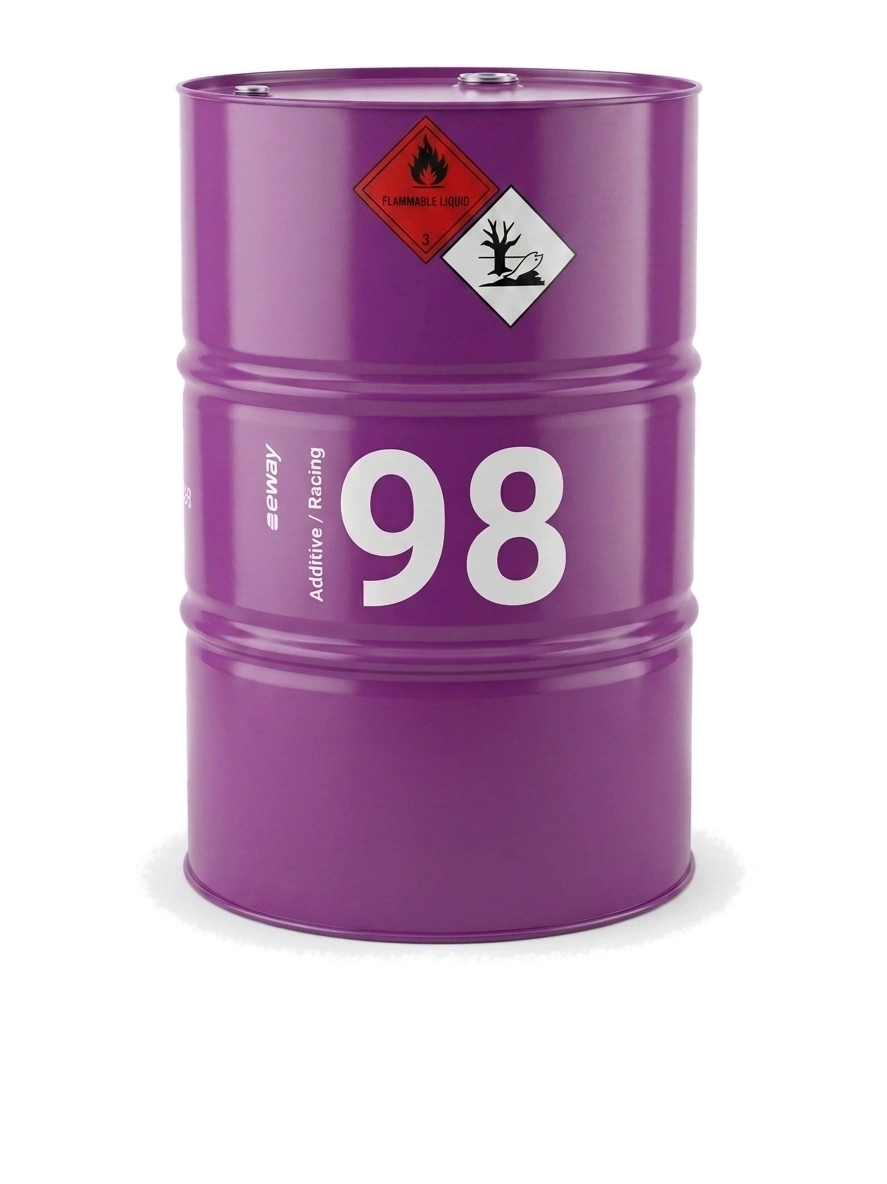
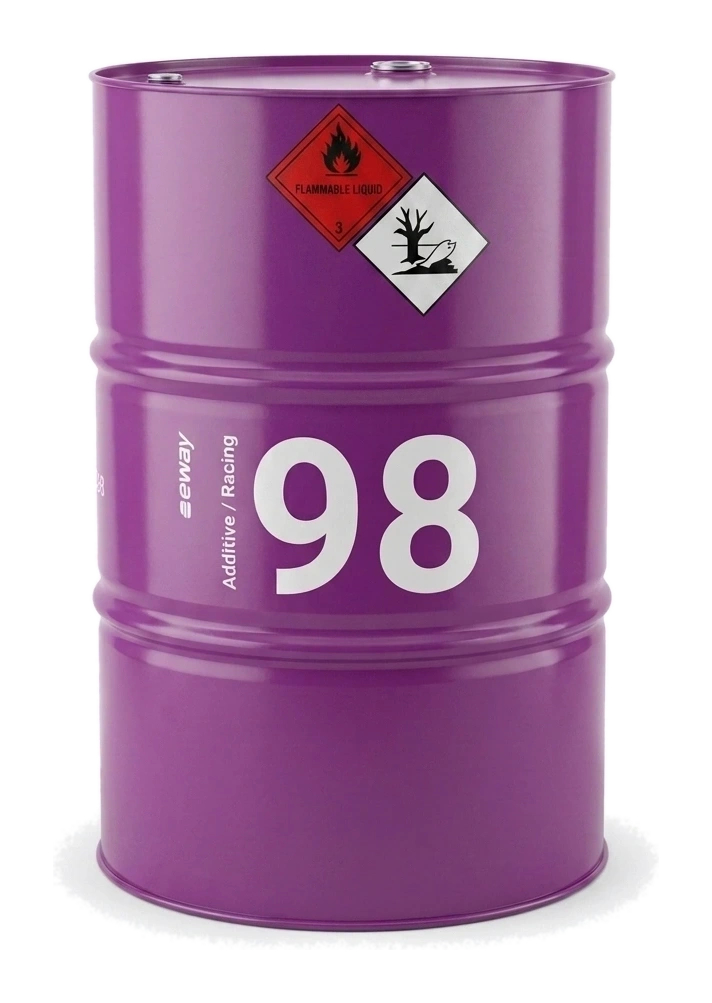
fix(productos,portada): tambor EWAY, orden por octanaje, gap del hero, tipografia
- Tambor de EWAY Super Plus 98 recortado a su cuerpo solido (alpha>128):
  la sombra suave del render original inflaba el bounding box y hacia
  que pareciera mas chico que las pailas Gulf pese a tener la misma
  caja nominal. Verificado con medicion de pixel renderizado: ahora
  114x169.5 vs 108.6x169.6 de Gulf, practicamente identico.
- Las 2 presentaciones "Tambor" a secas (TO-4 SAE 30/50) ahora dicen
  "Tambor 55 gal (208 L)".
- VP Racing > Combustibles de Competencia: cada fila (Con plomo, Sin
  plomo, Moto, Ethanol, Methanol) ordenada por octanaje descendente
  sin mover las filas de su lugar. Se agrego el campo octane a los 5
  alcoholes para poder ordenarlos tambien.
- Portada: la linea blanca entre el header y el hero era el motion.div
  de entrada de pagina (template.tsx) escalando desde el centro -
  transform-origin: top elimina el hueco sin tocar la animacion.
- Slogan "...mucho mas que solo motos" pasa de cursiva (Beau Rivage,
  el cliche tipico de plantilla) a Space Grotesk del sistema de marca,
  en las 2 apariciones del hero principal (arranque y cierre).
- Se quito la repeticion del slogan en BlueprintReveal (la animacion
  de la moto negra al final de la pagina) - ahora vive solo en el hero.

diff --git a/src/app/productos/[brand]/page.tsx b/src/app/productos/[brand]/page.tsx
@@ -55,6 +55,18 @@ function lanesByGroup(items: Product[]): CatalogLane[] {
   return order.map((g) => ({ title: g, products: map.get(g)! }));
 }
 
+// Reordena los productos DENTRO de cada carril por octanaje descendente, sin
+// tocar el orden de los carriles (filas) en sí — solo VP "Combustibles de
+// Competencia", donde cada tarjeta trae `octane`. "101+" se lee como 101.
+function sortLanesByOctaneDesc(lanes: CatalogLane[]): CatalogLane[] {
+  return lanes.map((lane) => ({
+    ...lane,
+    products: [...lane.products].sort(
+      (a, b) => parseFloat(b.octane ?? "0") - parseFloat(a.octane ?? "0"),
+    ),
+  }));
+}
+
 // Subsecciones por tipo (tags) en el orden indicado; nada se queda fuera.
 function lanesByTag(items: Product[], tagOrder: string[]): CatalogLane[] {
   const lanes: CatalogLane[] = [];
@@ -208,7 +220,7 @@ function buildNodes(meta: ProductBrandMeta, products: Product[]): CatalogNode[] 
       (p) => p.group === "Aceites de motor diesel" || p.group === "Fluidos de maquinaria",
     );
     return [
-      leaf("combustibles", "Combustibles de Competencia", lanesByGroup(combustibles)),
+      leaf("combustibles", "Combustibles de Competencia", sortLanesByOctaneDesc(lanesByGroup(combustibles))),
       leaf("diesel", "Diesel y Maquinaria Pesada", lanesByGroup([...dieselMaquinaria, ...dieselAditivos, ...dieselTanque])),
       leaf("aditivos", "Aditivos", lanesByGroup(aditivos)),
       leaf("fluidos", "Aceites y Fluidos", lanesByGroup([...lubricantes, ...fluidos])),

diff --git a/src/data/products.ts b/src/data/products.ts
@@ -100,11 +100,11 @@ export const products: Product[] = [
   { slug: "vp-t4-plus", brand: "vp-racing", name: "T4+", category: "gasolinas", group: "Moto", groupSlug: "moto",octane: "98.5",  summary: "98.5 oct, sin plomo, +2% potencia.", highlights: ["98.5 oct", "+2% potencia", "Moto"], presentations: ["Paila 5 gal (18.9 L)"], image: "/images/products/vp-racing/vp-t4-plus.webp" },
   { slug: "vp-mr12", brand: "vp-racing", name: "MR12", category: "gasolinas", group: "Moto", groupSlug: "moto",octane: "92.7",  summary: "92.7 oct, con plomo, para moto.", highlights: ["92.7 oct", "Moto", "Con plomo"], presentations: ["Paila 5 gal (18.9 L)"], image: "/images/products/vp-racing/vp-mr12.webp" },
   // ── VP RACING · Alcoholes (Ethanol y Methanol) ─────────────────────────
-  { slug: "vp-x98", brand: "vp-racing", name: "X98", category: "alcoholes", group: "Ethanol", groupSlug: "ethanol", summary: "Ethanol 98%, 111.5 oct, sin plomo.", highlights: ["Ethanol 98%", "111.5 oct"], presentations: ["Paila 5 gal (18.9 L)", "Tambor 54 gal (204 L)"], image: "/images/products/vp-racing/vp-x98.webp" },
-  { slug: "vp-x85", brand: "vp-racing", name: "X85", category: "alcoholes", group: "Ethanol", groupSlug: "ethanol", summary: "Ethanol 85%, 101.6 oct.", highlights: ["Ethanol 85%", "101.6 oct"], presentations: ["Paila 5 gal (18.9 L)"], image: "/images/products/vp-racing/vp-x85.webp" },
-  { slug: "vp-x85v", brand: "vp-racing", name: "X85V", category: "alcoholes", group: "Ethanol", groupSlug: "ethanol", summary: "Ethanol 85% (Green), 101.6 oct.", highlights: ["Ethanol 85% Green", "101.6 oct"], presentations: ["Caja 4 × 1 gal (3.785 L)"], image: "/images/products/vp-racing/vp-x85v.webp" },
-  { slug: "vp-c85", brand: "vp-racing", name: "C85", category: "alcoholes", group: "Ethanol", groupSlug: "ethanol", summary: "Ethanol, 96.3 oct, sin plomo.", highlights: ["Ethanol", "96.3 oct"], presentations: ["Paila 5 gal (18.9 L)"], image: "/images/products/vp-racing/vp-c85.webp" },
-  { slug: "vp-m1", brand: "vp-racing", name: "M1", category: "alcoholes", group: "Methanol", groupSlug: "methanol", summary: "Methanol puro, 101.6 oct.", highlights: ["Methanol puro", "101.6 oct"], presentations: ["Paila 5 gal (18.9 L)"], image: "/images/products/vp-racing/vp-m1.webp" },
+  { slug: "vp-x98", brand: "vp-racing", name: "X98", category: "alcoholes", group: "Ethanol", groupSlug: "ethanol",octane: "111.5",  summary: "Ethanol 98%, 111.5 oct, sin plomo.", highlights: ["Ethanol 98%", "111.5 oct"], presentations: ["Paila 5 gal (18.9 L)", "Tambor 54 gal (204 L)"], image: "/images/products/vp-racing/vp-x98.webp" },
+  { slug: "vp-x85", brand: "vp-racing", name: "X85", category: "alcoholes", group: "Ethanol", groupSlug: "ethanol",octane: "101.6",  summary: "Ethanol 85%, 101.6 oct.", highlights: ["Ethanol 85%", "101.6 oct"], presentations: ["Paila 5 gal (18.9 L)"], image: "/images/products/vp-racing/vp-x85.webp" },
+  { slug: "vp-x85v", brand: "vp-racing", name: "X85V", category: "alcoholes", group: "Ethanol", groupSlug: "ethanol",octane: "101.6",  summary: "Ethanol 85% (Green), 101.6 oct.", highlights: ["Ethanol 85% Green", "101.6 oct"], presentations: ["Caja 4 × 1 gal (3.785 L)"], image: "/images/products/vp-racing/vp-x85v.webp" },
+  { slug: "vp-c85", brand: "vp-racing", name: "C85", category: "alcoholes", group: "Ethanol", groupSlug: "ethanol",octane: "96.3",  summary: "Ethanol, 96.3 oct, sin plomo.", highlights: ["Ethanol", "96.3 oct"], presentations: ["Paila 5 gal (18.9 L)"], image: "/images/products/vp-racing/vp-c85.webp" },
+  { slug: "vp-m1", brand: "vp-racing", name: "M1", category: "alcoholes", group: "Methanol", groupSlug: "methanol",octane: "101.6",  summary: "Methanol puro, 101.6 oct.", highlights: ["Methanol puro", "101.6 oct"], presentations: ["Paila 5 gal (18.9 L)"], image: "/images/products/vp-racing/vp-m1.webp" },
 
   // ── VP RACING · Refrigerantes ───────────────────────────────────────────
   { slug: "vp-stay-frosty", brand: "vp-racing", name: "Stay Frosty — Race-Ready Coolant", category: "aditivos", group: "Refrigerantes", groupSlug: "refrigerantes", tags: ["Gasolina"], summary: "Refrigerante listo para competencia; reduce la temperatura hasta 17°C.", highlights: ["Reduce hasta 17°C", "Listo para usar", "Gasolina"], presentations: ["Caja de 4 × 1 Gal"], image: "/images/products/vp-racing/vp-stay-frosty.webp" },
@@ -178,8 +178,8 @@ export const products: Product[] = [
   { slug: "vp-transmission-sae50", brand: "vp-racing", name: "Ultra Synthetic Transmission Fluid SAE 50", category: "lubricantes", group: "Fluidos de maquinaria", groupSlug: "fluidos-maquinaria", tags: ["Sintético"], summary: "Fluido sintético SAE 50 para transmisiones manuales de equipo pesado.", highlights: ["SAE 50", "Transmisiones manuales", "Sintético"], presentations: ["Paila 5 Gal (18.9 L)"], image: "/images/products/vp-racing/vp-paila-plastica.webp" }, // verificar presentación (foto de baja resolución)
   // SAE 30 y SAE 50 son grados de viscosidad, no presentaciones — dos
   // productos separados (misma foto; "Tambor" es la única presentación real).
-  { slug: "vp-to4-fluid-sae30", brand: "vp-racing", name: "Ultra Power TO-4 Fluid SAE 30", category: "lubricantes", group: "Fluidos de maquinaria", groupSlug: "fluidos-maquinaria", summary: "Fluido TO-4 SAE 30 para transmisiones, mandos finales y sistemas hidráulicos de maquinaria pesada.", highlights: ["TO-4", "SAE 30", "Maquinaria pesada"], presentations: ["Tambor"], image: "/images/products/vp-racing/vp-to4-fluid.webp" },
-  { slug: "vp-to4-fluid-sae50", brand: "vp-racing", name: "Ultra Power TO-4 Fluid SAE 50", category: "lubricantes", group: "Fluidos de maquinaria", groupSlug: "fluidos-maquinaria", summary: "Fluido TO-4 SAE 50 para transmisiones, mandos finales y sistemas hidráulicos de maquinaria pesada.", highlights: ["TO-4", "SAE 50", "Maquinaria pesada"], presentations: ["Tambor"], image: "/images/products/vp-racing/vp-to4-fluid.webp" },
+  { slug: "vp-to4-fluid-sae30", brand: "vp-racing", name: "Ultra Power TO-4 Fluid SAE 30", category: "lubricantes", group: "Fluidos de maquinaria", groupSlug: "fluidos-maquinaria", summary: "Fluido TO-4 SAE 30 para transmisiones, mandos finales y sistemas hidráulicos de maquinaria pesada.", highlights: ["TO-4", "SAE 30", "Maquinaria pesada"], presentations: ["Tambor 55 gal (208 L)"], image: "/images/products/vp-racing/vp-to4-fluid.webp" },
+  { slug: "vp-to4-fluid-sae50", brand: "vp-racing", name: "Ultra Power TO-4 Fluid SAE 50", category: "lubricantes", group: "Fluidos de maquinaria", groupSlug: "fluidos-maquinaria", summary: "Fluido TO-4 SAE 50 para transmisiones, mandos finales y sistemas hidráulicos de maquinaria pesada.", highlights: ["TO-4", "SAE 50", "Maquinaria pesada"], presentations: ["Tambor 55 gal (208 L)"], image: "/images/products/vp-racing/vp-to4-fluid.webp" },
   { slug: "vp-hydraulic-aw68", brand: "vp-racing", name: "Utility Hydraulic Oil AW68", category: "lubricantes", group: "Fluidos de maquinaria", groupSlug: "fluidos-maquinaria", summary: "Aceite hidráulico antidesgaste ISO 68 para equipos y maquinaria.", highlights: ["ISO 68", "Antidesgaste"], presentations: ["Paila 5 Gal (18.9 L)"], image: "/images/products/vp-racing/vp-paila-plastica.webp" },
 
   // ── VP RACING · Lubricante de combustible (aditivo, no aceite de motor) ─

diff --git a/src/components/BlueprintReveal.tsx b/src/components/BlueprintReveal.tsx
@@ -4,7 +4,6 @@ import { useEffect, useRef } from "react";
 import Image from "next/image";
 import { useMotionValueEvent, useReducedMotion, useScroll } from "framer-motion";
 import { MOTO_SILHOUETTE_PATH, MOTO_SILHOUETTE_VIEWBOX } from "./logo3d/moto-silhouette-path";
-import { siteConfig } from "@/lib/site-config";
 import { withBasePath } from "@/lib/base-path";
 
 /**
@@ -316,17 +315,6 @@ export default function BlueprintReveal() {
             className="absolute bottom-[4%] left-1/2 h-6 w-3/4 -translate-x-1/2 rounded-[50%] bg-black/70 blur-xl"
           />
         </div>
-
-        {/* Cierre: el eslogan de la casa */}
-        <p
-          style={{
-            opacity: ramp(0.8, 0.9),
-            transform: `translateY(calc((1 - ${ramp(0.8, 0.9)}) * 14px))`,
-          }}
-          className="absolute bottom-16 px-6 text-center font-script text-3xl text-white sm:bottom-20 sm:text-4xl"
-        >
-          {siteConfig.slogan}
-        </p>
 
         {/* Pista de scroll: solo al inicio de la fase plano. bottom-20 en
             móvil: a bottom-6 chocaría con el cajetín, que en 390px cruza el

diff --git a/src/components/hero/ExplodedHero.tsx b/src/components/hero/ExplodedHero.tsx
@@ -312,16 +312,18 @@ export default function ExplodedHero() {
             <p className="text-center font-mono text-[11px] tracking-[0.3em] text-brand-red uppercase">
               Caracas · Venezuela
             </p>
-            <p className="font-script mt-2 text-center text-3xl text-white sm:text-4xl">
+            <p className="mt-2 text-center font-display text-xl font-medium tracking-wide text-white sm:text-2xl">
               {siteConfig.slogan}
             </p>
           </div>
         </div>
 
-        {/* Slogan de la casa, abajo a la izquierda (sale al arrancar) */}
+        {/* Slogan de la casa, abajo a la izquierda (sale al arrancar). Space
+            Grotesk (sistema de marca) en vez del script genérico: mismo
+            peso/tracking que los titulares, no una cursiva de plantilla. */}
         <p
           data-hero-title
-          className="absolute bottom-16 left-5 z-30 max-w-[80vw] font-script text-3xl leading-tight text-white drop-shadow-[0_2px_10px_rgba(0,0,0,0.5)] sm:bottom-14 sm:left-10 sm:text-5xl"
+          className="absolute bottom-16 left-5 z-30 max-w-[80vw] font-display text-2xl font-medium tracking-wide text-white drop-shadow-[0_2px_10px_rgba(0,0,0,0.5)] sm:bottom-14 sm:left-10 sm:text-4xl"
         >
           {siteConfig.slogan}
         </p>

diff --git a/src/app/template.tsx b/src/app/template.tsx
@@ -13,6 +13,10 @@ export default function Template({ children }: { children: React.ReactNode }) {
       initial={{ opacity: 0, scale: 0.98 }}
       animate={{ opacity: 1, scale: 1 }}
       transition={{ duration: 0.35, ease: [0.22, 1, 0.36, 1] }}
+      // Origen arriba, no al centro: con scale<1 el achique nunca deja ver
+      // el fondo blanco de <body> por encima del header (línea/gap blanco
+      // entre el header y el hero mientras corre o si se traba la entrada).
+      style={{ transformOrigin: "top" }}
     >
       {children}
     </motion.div>